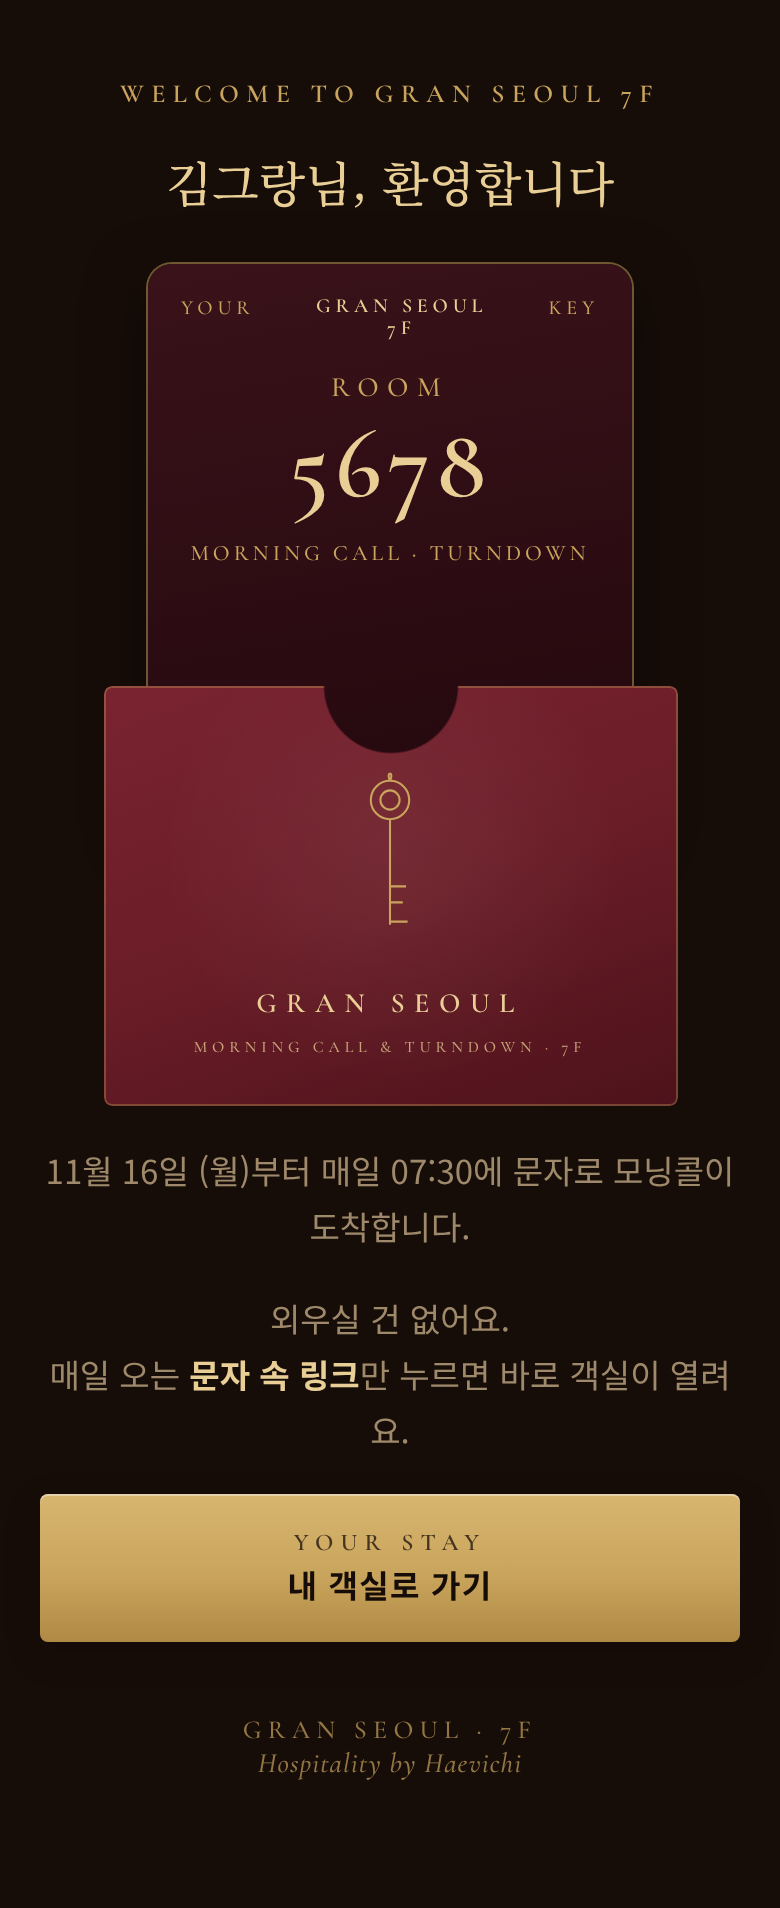
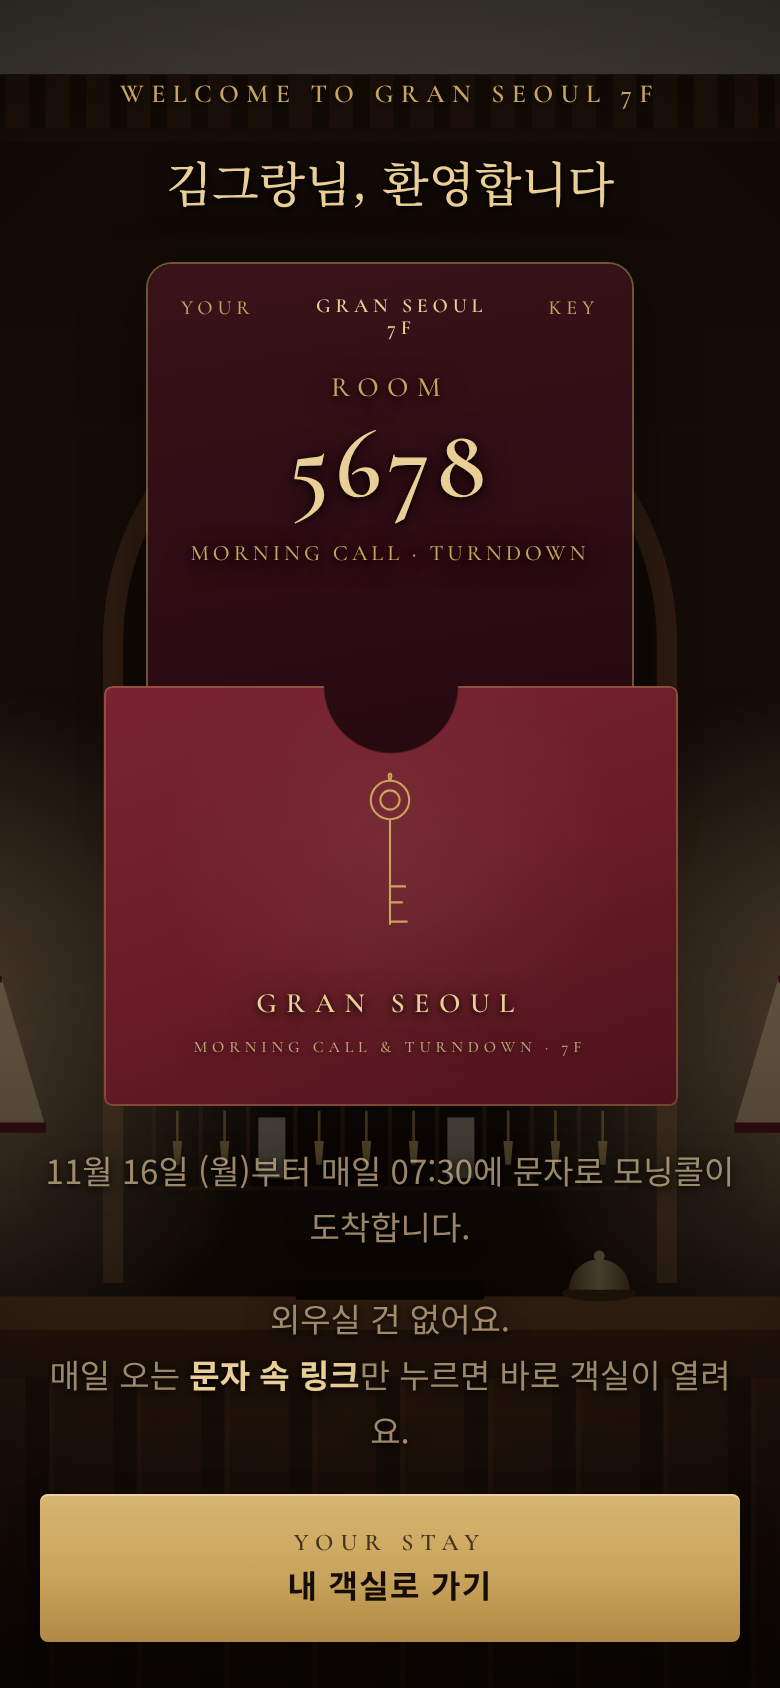
Key card screen: front desk background with gradual 60% dim
Claude-Session: https://claude.ai/code/session_011z6wvs2Gb5um8vyCmLK585

diff --git a/index.html b/index.html
@@ -126,6 +126,16 @@ footer i{font-style:italic;text-transform:none;letter-spacing:.04em;font-size:14
 .svc h3 span{font-family:var(--serif);font-size:13px;color:var(--brass);margin-left:6px;font-weight:500}
 .gift-note{border:1px solid rgba(201,164,92,.45);border-radius:4px;padding:18px;text-align:center}
 
+/* 체크인 완료 화면 배경: 프런트 데스크가 보이다가 검은 막(60%)이 서서히 내려앉음 */
+#wbg{position:fixed;inset:0;z-index:-1;display:none;background:var(--walnut-900)}
+#wbg svg{width:100%;height:100%;display:block}
+#wbg::after{content:'';position:absolute;inset:0;background:#000;opacity:0}
+body.lobby #wbg{display:block}
+body.lobby #wbg::after{animation:dimIn 2.4s .3s ease forwards}
+@keyframes dimIn{to{opacity:.6}}
+#wbg::before{content:'';position:absolute;inset:0;z-index:1;background:linear-gradient(180deg,rgba(0,0,0,.35),transparent 25%,transparent 55%,rgba(0,0,0,.55))}
+body.lobby #s-welcome :is(p,h2){text-shadow:0 1px 3px rgba(0,0,0,.9),0 2px 14px rgba(0,0,0,.8)}
+
 /* 체크인 모션 화면 */
 #checkin{position:fixed;inset:0;z-index:25;background:var(--walnut-900);display:none;flex-direction:column;align-items:center;justify-content:center;padding:20px;cursor:pointer}
 #checkin.on{display:flex;animation:fadeIn .4s}
@@ -282,6 +292,9 @@ body.velvet{background:repeating-linear-gradient(90deg,#4a1219 0 14px,#5c1820 26
   <div class="lift-floor"></div>
   <button class="skip" id="liftSkip">SKIP ›</button>
 </div>
+
+<!-- 체크인 완료 화면 배경: 프런트 데스크 + 서서히 어두워지는 막 -->
+<div id="wbg" aria-hidden="true"></div>
 
 <!-- 프런트 데스크 체크인 연출 (탭하면 건너뜀) -->
 <div id="checkin">
@@ -880,7 +893,7 @@ const stretchSlots = dayList.filter(d => CONFIG.stretch.weekdays.includes(d.getD
 function show(name) {
   document.querySelectorAll('.screen').forEach(s => s.classList.toggle('on', s.id === 's-' + name));
   window.scrollTo(0, 0);
-  document.body.className = name === 'home' || name === 'welcome' ? 'dark' : name === 'ticket' ? 'dark velvet' : '';
+  document.body.className = name === 'welcome' ? 'dark lobby' : name === 'home' ? 'dark' : name === 'ticket' ? 'dark velvet' : '';
   if (name === 'me') renderMe();
   if (name === 'gift') renderGifts();
 }
@@ -952,6 +965,7 @@ function deskSVG(id) {   // id: 그림마다 다른 이름 (같은 이름을 쓰
 $('homeDesk').innerHTML = deskSVG('home');
 $('checkinDesk').insertAdjacentHTML('afterbegin', deskSVG('ci'));
 $('liftBehind').innerHTML = deskSVG('lift');
+$('wbg').innerHTML = deskSVG('wbg');
 
 /* 엘리베이터 입장: 1층 → 7층, 문이 열리며 로비 등장 (처음 한 번만, 탭하면 건너뜀) */
 function playLift() {
